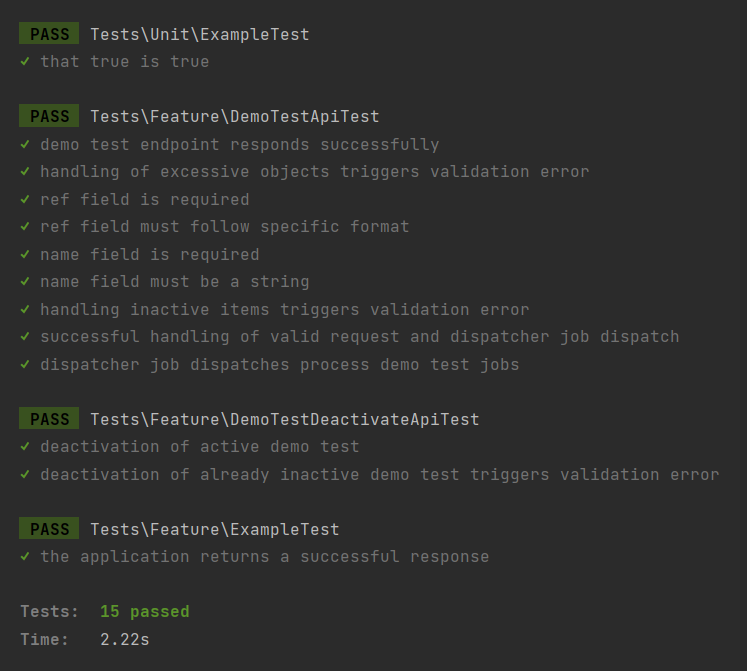
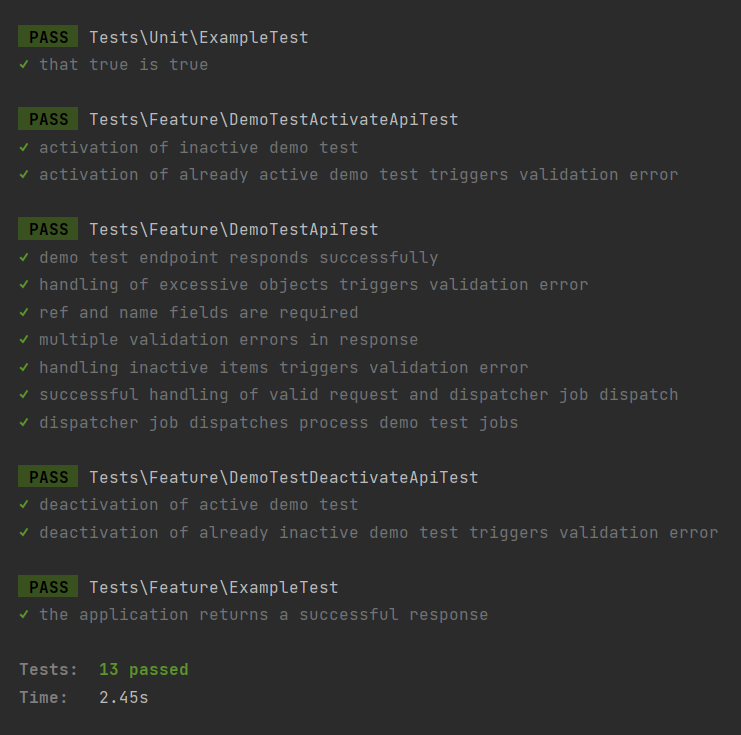
Update validation error showing and modified related code with it

diff --git a/tests/Feature/DemoTestApiTest.php b/tests/Feature/DemoTestApiTest.php
@@ -28,85 +28,77 @@ class DemoTestApiTest extends TestCase
     }
 
     /**
-    * Test handling of more than 2000 objects to simulate a validation error.
-    */
+     * Test handling of more than 2000 objects to simulate a validation error.
+     */
     public function test_handling_of_excessive_objects_triggers_validation_error()
     {
+        // Generating more than 2000 objects to exceed the limit
         $data = DemoTest::factory()->count(2001)->make()->toArray();
+
+        // Sending a POST request with the data
         $response = $this->postJson($this->demoTestApiEndpoint, $data);
 
+        // Asserting that the status code is HTTP_UNPROCESSABLE_ENTITY
         $response->assertStatus(Response::HTTP_UNPROCESSABLE_ENTITY);
-        $response->assertJson(['message' => 'A maximum of 2000 items are allowed.']);
+
+        // Asserting the full response structure including the comprehensive error details
+        $response->assertJson([
+            'message' => 'The given data was invalid.',
+            'errors' => [
+                'items' => ['A maximum of 2000 items are allowed.']
+            ]
+        ]);
     }
 
     /**
-     * Test 'ref' field is required.
+     * Test ref and name fields are required.
      */
-    public function test_ref_field_is_required()
+    public function test_ref_and_name_fields_are_required()
     {
         $data = [
             [
-                'name' => 'Test Name',
                 'description' => 'Test Description'
             ]
         ];
 
         $response = $this->postJson($this->demoTestApiEndpoint, $data);
         $response->assertStatus(Response::HTTP_UNPROCESSABLE_ENTITY);
-        $response->assertJson(['message' => 'A ref is required for each item.']);
+        $response->assertJson([
+            'message' => 'The given data was invalid.',
+            'errors' => [
+                '0.ref' => ['The ref is required for each item.'],
+                '0.name' => ['The name is required for each item.']
+            ]
+        ]);
     }
 
     /**
-     * Test 'ref' field must follow specific format.
+     * Test multiple validation errors.
      */
-    public function test_ref_field_must_follow_specific_format()
+    public function test_multiple_validation_errors_in_response()
     {
+        // Assuming $data contains the test data that would generate the sample response you provided
         $data = [
-            [
-                'ref' => 'InvalidRef',
-                'name' => 'Another Test',
-                'description' => 'Another Test Description'
-            ]
+            ['name' => 'Test', 'description' => 'Test without ref'], // Missing ref
+            ['ref' => 'T-1', 'description' => 'Test with name missing'], // Missing name
+            ['ref' => 'T-3', 'name' => 'Duplicate Ref Test', 'description' => 'Test Description'], // Duplicate ref
+            ['ref' => 'T-3', 'name' => 'Duplicate Ref Test Again', 'description' => 'Test Description'], // Duplicate ref
+            ['ref' => 'czx-fd', 'name' => 'Invalid Format', 'description' => 'Test Description'], // Invalid ref format
         ];
 
         $response = $this->postJson($this->demoTestApiEndpoint, $data);
-        $response->assertStatus(Response::HTTP_UNPROCESSABLE_ENTITY);
-        $response->assertJson(['message' => 'Each ref must follow the format T-[number].']);
-    }
 
-    /**
-     * Test 'name' field is required.
-     */
-    public function test_name_field_is_required()
-    {
-        $data = [
-            [
-                'ref' => 'T-2001',
-                'description' => 'Description without name'
+        $response->assertStatus(Response::HTTP_UNPROCESSABLE_ENTITY);
+        $response->assertJson([
+            'message' => 'The given data was invalid.',
+            'errors' => [
+                '0.ref' => ['The ref is required for each item.'],
+                '1.name' => ['The name is required for each item.'],
+                '2.ref' => ['Duplicate ref found for T-3. Please remove duplicates.'],
+                '3.ref' => ['Duplicate ref found for T-3. Please remove duplicates.'],
+                '4.ref' => ['Invalid ref format for ref czx-fd. The ref must follow the format T-[number].'],
             ]
-        ];
-
-        $response = $this->postJson($this->demoTestApiEndpoint, $data);
-        $response->assertStatus(Response::HTTP_UNPROCESSABLE_ENTITY);
-        $response->assertJson(['message' => 'A name is required for each item.']);
-    }
-
-    /**
-     * Test 'name' field must be a string.
-     */
-    public function test_name_field_must_be_a_string()
-    {
-        $data = [
-            [
-                'ref' => 'T-3001',
-                'name' => 12345,
-                'description' => 'Test Description'
-            ]
-        ];
-
-        $response = $this->postJson($this->demoTestApiEndpoint, $data);
-        $response->assertStatus(Response::HTTP_UNPROCESSABLE_ENTITY);
-        $response->assertJson(['message' => 'The name must be a string.']);
+        ]);
     }
 
     /**
@@ -143,7 +135,14 @@ class DemoTestApiTest extends TestCase
         $response->assertStatus(Response::HTTP_UNPROCESSABLE_ENTITY);
 
         // Assert the expected validation error message
-        $response->assertJson(['message' => 'One or more items are inactive and cannot be processed.']);
+        $response->assertJson(
+            [
+                'message' => 'The given data was invalid.',
+                'errors' => [
+                    'items' => ['One or more items are inactive and cannot be processed.']
+                ]
+            ]
+        );
     }
 
     /**

diff --git a/app/Http/Requests/DemoTestStoreRequest.php b/app/Http/Requests/DemoTestStoreRequest.php
@@ -43,10 +43,10 @@ class DemoTestStoreRequest extends FormRequest
     public function messages(): array
     {
         return [
-            '*.ref.required' => 'A ref is required for each item.',
-            '*.ref.distinct' => 'Each ref in the list must be unique.',
-            '*.ref.regex' => 'Each ref must follow the format T-[number].',
-            '*.name.required' => 'A name is required for each item.',
+            '*.ref.required' => 'The ref is required for each item.',
+            '*.ref.distinct' => 'Duplicate ref found for :input. Please remove duplicates.',
+            '*.ref.regex' => 'Invalid ref format for ref :input. The ref must follow the format T-[number].',
+            '*.name.required' => 'The name is required for each item.',
             '*.name.string' => 'The name must be a string.',
             '*.description.string' => 'The description must be a string.',
         ];
@@ -96,13 +96,9 @@ class DemoTestStoreRequest extends FormRequest
      */
     protected function failedValidation(Validator $validator)
     {
-        $errors = $validator->errors()->messages();
-
-        // Find the first error message
-        $firstErrorKey = array_key_first($errors);
-        $firstErrorMessage = $errors[$firstErrorKey][0];
-        $formattedError = ["message" => $firstErrorMessage];
-
-        throw new HttpResponseException(response()->json($formattedError, Response::HTTP_UNPROCESSABLE_ENTITY));
+        throw new HttpResponseException(response()->json([
+            'message' => 'The given data was invalid.',
+            'errors' => $validator->errors()
+        ], Response::HTTP_UNPROCESSABLE_ENTITY));
     }
 }

diff --git a/app/Http/Requests/DeactivateDemoTestRequest.php b/app/Http/Requests/DeactivateDemoTestRequest.php
@@ -79,13 +79,9 @@ class DeactivateDemoTestRequest extends FormRequest
      */
     protected function failedValidation(Validator $validator)
     {
-        $errors = $validator->errors()->messages();
-
-        // Find the first error message
-        $firstErrorKey = array_key_first($errors);
-        $firstErrorMessage = $errors[$firstErrorKey][0];
-        $formattedError = ["message" => $firstErrorMessage];
-
-        throw new HttpResponseException(response()->json($formattedError, Response::HTTP_UNPROCESSABLE_ENTITY));
+        throw new HttpResponseException(response()->json([
+            'message' => 'The given data was invalid.',
+            'errors' => $validator->errors()
+        ], Response::HTTP_UNPROCESSABLE_ENTITY));
     }
 }

diff --git a/app/Http/Requests/ActivateDemoTestRequest.php b/app/Http/Requests/ActivateDemoTestRequest.php
@@ -79,13 +79,9 @@ class ActivateDemoTestRequest extends FormRequest
      */
     protected function failedValidation(Validator $validator)
     {
-        $errors = $validator->errors()->messages();
-
-        // Find the first error message
-        $firstErrorKey = array_key_first($errors);
-        $firstErrorMessage = $errors[$firstErrorKey][0];
-        $formattedError = ["message" => $firstErrorMessage];
-
-        throw new HttpResponseException(response()->json($formattedError, Response::HTTP_UNPROCESSABLE_ENTITY));
+        throw new HttpResponseException(response()->json([
+            'message' => 'The given data was invalid.',
+            'errors' => $validator->errors()
+        ], Response::HTTP_UNPROCESSABLE_ENTITY));
     }
 }

diff --git a/tests/Feature/DemoTestDeactivateApiTest.php b/tests/Feature/DemoTestDeactivateApiTest.php
@@ -35,7 +35,11 @@ class DemoTestDeactivateApiTest extends TestCase
 
         $response = $this->postJson(route('demo.test.deactivate'), ['ref' => $demoTest->ref]);
         $response->assertStatus(Response::HTTP_UNPROCESSABLE_ENTITY);
-
-        $response->assertJson(['message' => 'The test with the given reference ID is already inactive.']);
+        $response->assertJson([
+            'message' => 'The given data was invalid.',
+            'errors' => [
+                'ref' => ['The test with the given reference ID is already inactive.']
+            ]
+        ]);
     }
 }

diff --git a/tests/Feature/DemoTestActivateApiTest.php b/tests/Feature/DemoTestActivateApiTest.php
@@ -41,7 +41,11 @@ class DemoTestActivateApiTest extends TestCase
 
         $response = $this->postJson(route('demo.test.activate'), ['ref' => $demoTest->ref]);
         $response->assertStatus(Response::HTTP_UNPROCESSABLE_ENTITY);
-
-        $response->assertJson(['message' => 'The test with the given reference ID is already active.']);
+        $response->assertJson([
+            'message' => 'The given data was invalid.',
+            'errors' => [
+                'ref' => ['The test with the given reference ID is already active.']
+            ]
+        ]);
     }
 }

diff --git a/README.md b/README.md
@@ -1,7 +1,8 @@
 # Demo Test Project
 
-This project is a Laravel-based API that handles the creation, activation, and deactivation of demo test items. It includes robust testing capabilities and uses a database to manage state and simulate various test conditions.
+Demo Test Project is a Laravel-based API that efficiently manages the lifecycle of demo test items such as creation, activation, and deactivation using a sophisticated queuing system. Users can interact with the API to submit multiple test items identified by a unique reference ID, along with associated names and descriptions. The project leverages Laravel's queue functionality to process these items, ensuring scalability and robust handling under various load conditions.
 
+Additionally, the project includes comprehensive testing features designed to validate the functionality and reliability of the API endpoints and the queuing system. Automated tests cover scenarios ranging from typical use cases to error handling and load testing, ensuring that the system behaves as expected even when simulating job failures. This rigorous testing framework is vital for maintaining high standards of quality and performance in deployment.
 ## Requirements
 
 - PHP 8.1 or higher
@@ -107,6 +108,61 @@ You can test the API endpoints using Postman or any other API client:
     "ref": "T-1"
 }
 ```
+## Error Handling in API Responses
+
+API errors are structured in JSON format to provide comprehensive feedback. When a request fails validation, all validation errors are returned.
+Here is an example of a 422 error response for the `/api/demo/test` endpoint:
+
+```json
+{
+    "message": "The given data was invalid.",
+    "errors": {
+        "0.ref": [
+            "The ref is required for each item."
+        ],
+        "2.ref": [
+            "Duplicate ref found for T-3. Please remove duplicates."
+        ],
+        "3.ref": [
+            "Duplicate ref found for T-3. Please remove duplicates."
+        ],
+        "4.ref": [
+            "Invalid ref format for ref czx-fd. The ref must follow the format T-[number]."
+        ],
+        "1.name": [
+            "The name is required for each item."
+        ],
+        "items": [
+            "A maximum of 2000 items are allowed."
+        ]
+    }
+}
+```
+Here is an example of a 422 error response for the `/api/demo/test/activate` endpoint:
+
+```json
+{
+    "message": "The given data was invalid.",
+    "errors": {
+        "ref": [
+            "The test with the given reference ID does not exist."
+        ]
+    }
+}
+```
+Here is an example of a 422 error response for the `/api/demo/test/deactivate` endpoint:
+
+```json
+{
+    "message": "The given data was invalid.",
+    "errors": {
+        "ref": [
+            "The test with the given reference ID is already inactive."
+        ]
+    }
+}
+```
+
 ## Simulating Failures
 
 To simulate job failures at a rate of approximately 10%, set the environment variable `SIMULATE_FAILURE` to `true` in your `.env` file. Adjust this as needed to test different failure scenarios.
@@ -126,28 +182,3 @@ php artisan test
 Here is a screenshot of a successful test results after running `php artisan test`:
 
 ![Test Results](php_unit_test_result_screen.png)
-
-## Error Handling in API Responses
-
-API errors are structured in JSON format to provide clear, actionable information. Here are some error examples of `422` Unprocessable Entity responses:
-
-```json
-{
-    "message": "A maximum of 2000 items are allowed."
-}
-```
-```json
-{
-    "message": "Each ref must follow the format T-[number]."
-}
-```
-```json
-{
-    "message": "A name is required for each item."
-}
-```
-```json
-{
-    "message": "The test with the given reference ID is already active."
-}
-```
